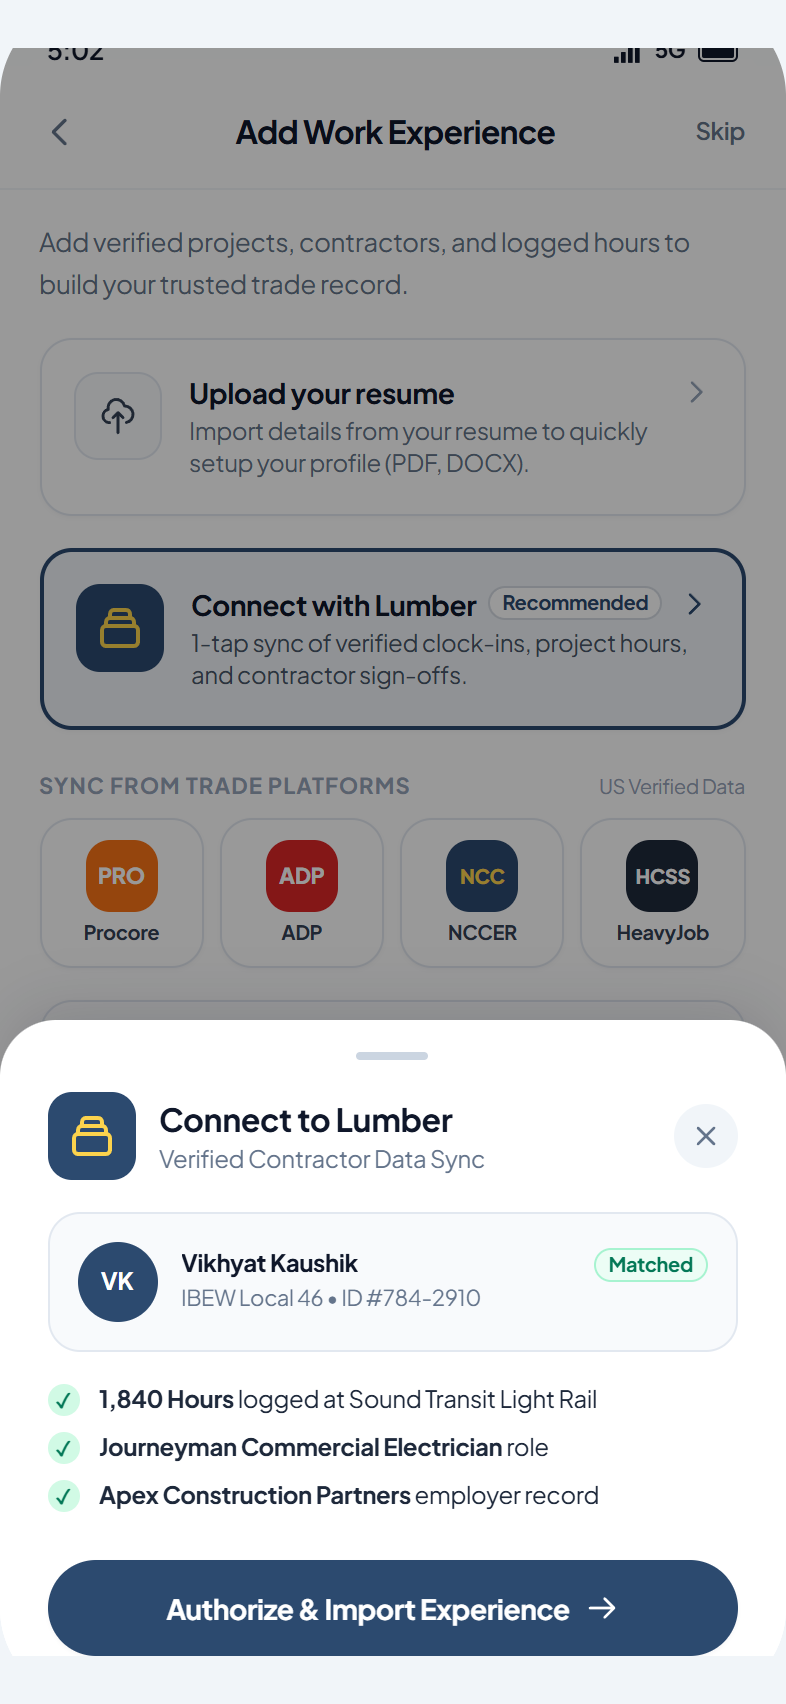
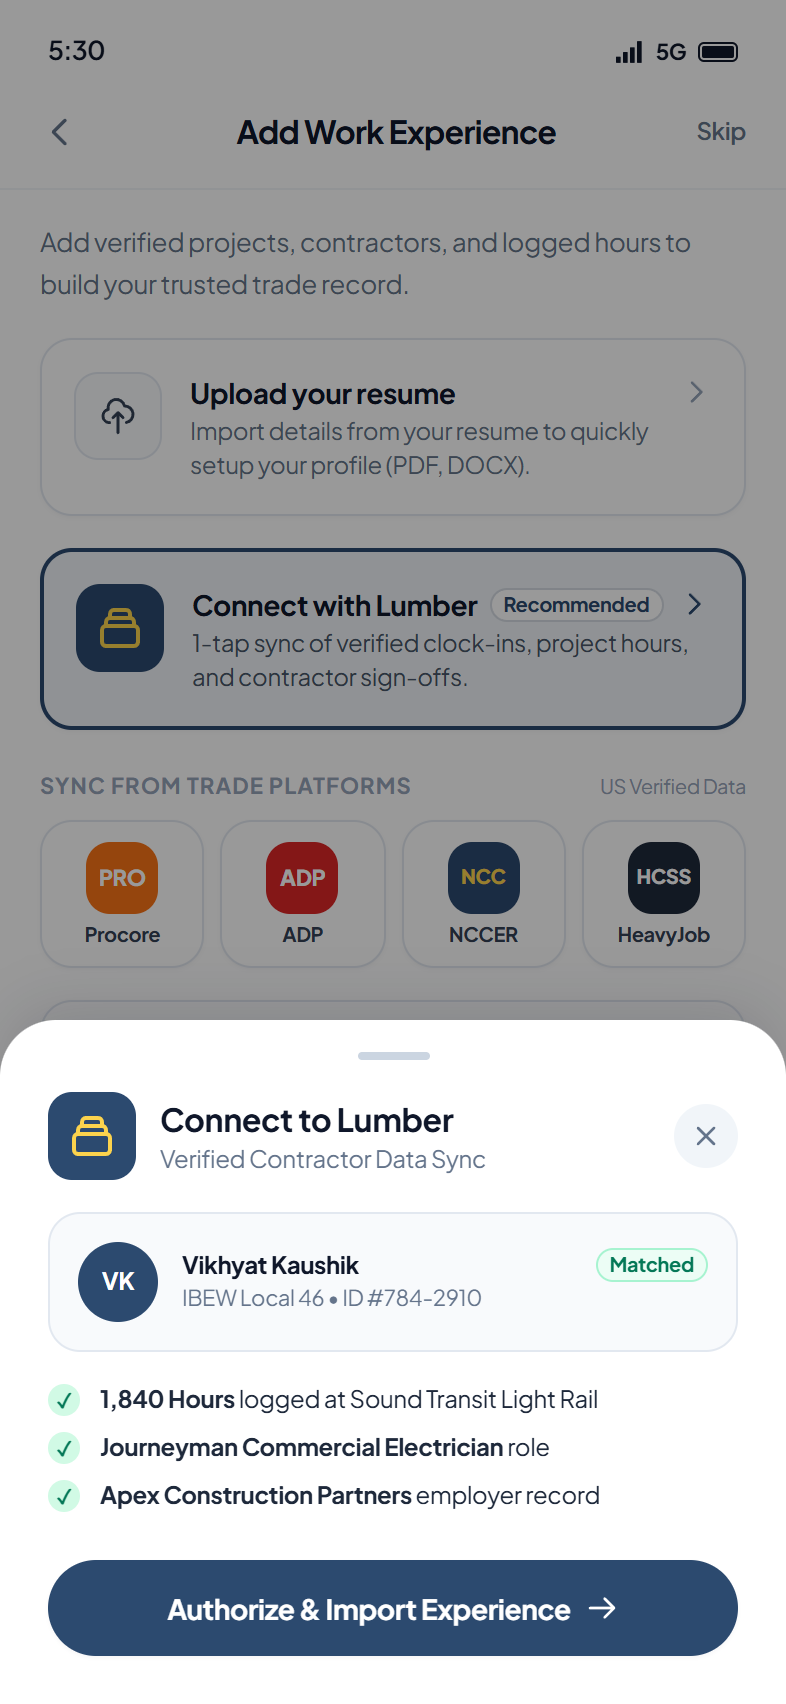
fix: Uncrop screen captures with full top and bottom bars, add Loom link, and unify deliverables card section

diff --git a/case-study.html b/case-study.html
@@ -197,60 +197,72 @@
   <!-- ===================================================================== -->
   <!-- INTERACTIVE DELIVERABLES: HTML PROTOTYPE & LOOM VIDEO LINKS           -->
   <!-- ===================================================================== -->
-  <div class="w-full bg-[#0E1420] text-white border-b border-slate-800 py-10 sm:py-12 px-6 sm:px-10 avoid-break shadow-2xl relative z-20">
-    <div class="max-w-7xl mx-auto flex flex-col lg:flex-row lg:items-center justify-between gap-8">
+  <section class="w-full py-12 sm:py-16 bg-white border-b border-slate-200/80 avoid-break">
+    <div class="max-w-7xl mx-auto px-6 sm:px-10 space-y-8">
       
-      <!-- Text & Live Status -->
-      <div class="space-y-2.5 max-w-xl">
-        <div class="inline-flex items-center gap-2.5 px-3 py-1 rounded-full bg-emerald-500/10 border border-emerald-500/30 text-emerald-400 text-xs font-mono font-semibold">
-          <span class="w-2 h-2 rounded-full bg-emerald-400 animate-pulse"></span>
-          <span class="tracking-wide uppercase">Interactive Deliverables</span>
+      <!-- Section Header with Two-Tone Typography & Side Accent (Matching Walkthrough Section) -->
+      <div class="flex flex-col lg:flex-row lg:items-end justify-between gap-6 pb-2">
+        <div class="space-y-3 max-w-3xl">
+          <div class="inline-flex items-center gap-2 px-3 py-1 rounded-full bg-blue-50 border border-blue-200 text-[#2C4A6F] text-xs font-mono font-semibold">
+            <span class="w-2 h-2 rounded-full bg-[#2C4A6F] animate-pulse"></span>
+            <span>INTERACTIVE DELIVERABLES</span>
+          </div>
+          <h3 class="text-3xl sm:text-4xl lg:text-5xl font-semibold tracking-tight text-slate-900 leading-tight">
+            Explore the Working <span class="text-slate-400 font-normal">Deliverables</span>
+          </h3>
+          <p class="text-base text-slate-600 leading-relaxed font-normal">
+            Interact with the working mobile application simulator directly in your browser or watch the narrated video walkthrough detailing key architecture decisions.
+          </p>
         </div>
-        <h3 class="text-2xl sm:text-3xl font-bold tracking-tight text-white">
-          Explore the Working Redesign
-        </h3>
-        <p class="text-sm sm:text-base text-slate-300 font-light leading-relaxed">
-          Test the interactive mobile prototype directly in your browser, or watch the narrated Loom video walkthrough covering key architectural trade-offs.
-        </p>
+        <div class="hidden lg:block pl-6 border-l border-slate-200 text-xs font-mono uppercase tracking-widest text-slate-400 leading-relaxed max-w-[200px]">
+          INTERACTIVE PROTOTYPE &amp; VIDEO.
+        </div>
       </div>
 
-      <!-- Prominent High-Impact Action Buttons -->
-      <div class="flex flex-col sm:flex-row items-stretch sm:items-center gap-4">
-        <!-- HTML Prototype Button (Primary High-Contrast Accent) -->
-        <a href="index.html" target="_blank" rel="noopener noreferrer" class="group relative inline-flex items-center justify-between sm:justify-center gap-4 px-8 py-4 sm:py-5 rounded-2xl bg-[#2C4A6F] hover:bg-[#1E3550] text-white font-bold text-base shadow-2xl hover:shadow-cyan-900/40 hover:-translate-y-1 transition-all duration-300 ring-2 ring-white/20 hover:ring-amber-300/60">
-          <div class="flex items-center gap-3.5">
-            <div class="w-10 h-10 rounded-xl bg-white/15 flex items-center justify-center text-amber-300 group-hover:scale-110 group-hover:rotate-6 transition-all duration-300 shadow-inner">
-              <svg class="w-5 h-5" fill="none" stroke="currentColor" stroke-width="2.2" viewBox="0 0 24 24">
-                <path stroke-linecap="round" stroke-linejoin="round" d="M10 20l4-16m4 4l4 4-4 4M6 16l-4-4 4-4"/>
-              </svg>
-            </div>
-            <div class="text-left">
-              <span class="block text-base sm:text-lg font-bold tracking-tight text-white leading-tight">Interactive HTML Prototype</span>
-              <span class="text-xs text-slate-300 font-normal font-mono">Live Mobile App Simulator ↗</span>
+      <!-- Deliverables Action Cards (Matching User Reference Design) -->
+      <div class="grid grid-cols-1 md:grid-cols-2 gap-6">
+        <!-- Card 1: Interactive HTML Prototype -->
+        <a href="https://v1khyat.github.io/LumberFi-Assignment/" target="_blank" rel="noopener noreferrer" class="group p-8 rounded-[28px] bg-gradient-to-br from-[#F0F5FA] to-[#E5EEF8] border border-blue-200/80 shadow-sm hover:shadow-md transition-all duration-300 flex flex-col justify-between space-y-6">
+          <div class="flex items-start justify-between">
+            <span class="inline-flex items-center gap-2 px-3 py-1 rounded-full bg-emerald-50 border border-emerald-200 text-emerald-700 text-xs font-mono font-semibold">
+              <span class="w-2 h-2 rounded-full bg-emerald-500 animate-pulse"></span>
+              <span>LIVE EVALUATION READY</span>
+            </span>
+            <div class="w-11 h-11 rounded-2xl bg-white border border-slate-200 text-[#2C4A6F] flex items-center justify-center font-mono font-bold text-sm shadow-xs group-hover:scale-105 transition-transform">
+              &lt;/&gt;
             </div>
           </div>
-          <span class="text-[11px] font-mono font-extrabold bg-emerald-400 text-slate-950 px-2.5 py-1 rounded-lg uppercase tracking-wider shadow-sm ml-2">LIVE</span>
+          <div class="space-y-1">
+            <h4 class="text-2xl font-bold tracking-tight text-slate-900">Interactive HTML Prototype</h4>
+            <p class="text-xs text-slate-500 font-mono">Live Mobile App Simulator ↗</p>
+          </div>
+          <div class="pt-2 flex justify-end">
+            <span class="px-5 py-2 rounded-xl bg-[#2C4A6F] text-white text-xs font-bold font-mono tracking-wider uppercase shadow-xs group-hover:bg-[#1E3550] transition-colors">LIVE</span>
+          </div>
         </a>
 
-        <!-- Loom Video Explainer Button (Crisp High-Contrast White Pill) -->
-        <a href="https://www.loom.com/share/your-loom-video-id" target="_blank" rel="noopener noreferrer" class="group relative inline-flex items-center justify-between sm:justify-center gap-4 px-8 py-4 sm:py-5 rounded-2xl bg-white hover:bg-slate-100 text-slate-900 font-bold text-base shadow-2xl hover:shadow-white/20 hover:-translate-y-1 transition-all duration-300 ring-2 ring-white hover:ring-[#625DF5]/50">
-          <div class="flex items-center gap-3.5">
-            <div class="w-10 h-10 rounded-xl bg-[#625DF5]/10 flex items-center justify-center text-[#625DF5] group-hover:scale-110 group-hover:rotate-6 transition-all duration-300 shadow-inner">
+        <!-- Card 2: Quick Loom Explainer -->
+        <a href="https://www.loom.com/share/42d12a3114e4495a91f8ef5b5296af5b" target="_blank" rel="noopener noreferrer" class="group p-8 rounded-[28px] bg-white border border-slate-200 shadow-sm hover:shadow-md transition-all duration-300 flex flex-col justify-between space-y-6">
+          <div class="flex items-start justify-between">
+            <div class="w-11 h-11 rounded-2xl bg-[#625DF5]/10 text-[#625DF5] flex items-center justify-center group-hover:scale-105 transition-transform">
               <svg class="w-5 h-5" viewBox="0 0 24 24" fill="currentColor">
                 <path d="M12 2C6.48 2 2 6.48 2 12s4.48 10 10 10 10-4.48 10-10S17.52 2 12 2zm-2 14.5v-9l6 4.5-6 4.5z"/>
               </svg>
             </div>
-            <div class="text-left">
-              <span class="block text-base sm:text-lg font-bold tracking-tight text-slate-900 leading-tight">Quick Loom Explainer</span>
-              <span class="text-xs text-slate-500 font-normal font-mono">Narrated Video Walkthrough ↗</span>
-            </div>
+            <span class="text-xs text-slate-400 font-mono">5 MIN READ / WATCH</span>
           </div>
-          <span class="text-[11px] font-mono font-bold bg-slate-100 text-slate-700 px-2.5 py-1 rounded-lg uppercase tracking-wider border border-slate-300 ml-2">VIDEO</span>
+          <div class="space-y-1">
+            <h4 class="text-2xl font-bold tracking-tight text-slate-900">Quick Loom Explainer</h4>
+            <p class="text-xs text-slate-500 font-mono">Narrated Video Walkthrough ↗</p>
+          </div>
+          <div class="pt-2 flex justify-end">
+            <span class="px-5 py-2 rounded-xl bg-slate-100 border border-slate-200 text-slate-700 text-xs font-bold font-mono tracking-wider uppercase group-hover:bg-slate-200 transition-colors">VIDEO</span>
+          </div>
         </a>
       </div>
 
     </div>
-  </div>
+  </section>
 
   <!-- ===================================================================== -->
   <!-- THE CONTEXT (App, Users, & The Core Problem)                          -->
@@ -827,7 +839,7 @@
       <!-- Deliverables Action Cards (Matching User Reference Design) -->
       <div class="grid grid-cols-1 md:grid-cols-2 gap-6">
         <!-- Card 1: Interactive HTML Prototype -->
-        <a href="index.html" target="_blank" rel="noopener noreferrer" class="group p-8 rounded-[28px] bg-gradient-to-br from-[#F0F5FA] to-[#E5EEF8] border border-blue-200/80 shadow-sm hover:shadow-md transition-all duration-300 flex flex-col justify-between space-y-6">
+        <a href="https://v1khyat.github.io/LumberFi-Assignment/" target="_blank" rel="noopener noreferrer" class="group p-8 rounded-[28px] bg-gradient-to-br from-[#F0F5FA] to-[#E5EEF8] border border-blue-200/80 shadow-sm hover:shadow-md transition-all duration-300 flex flex-col justify-between space-y-6">
           <div class="flex items-start justify-between">
             <span class="inline-flex items-center gap-2 px-3 py-1 rounded-full bg-emerald-50 border border-emerald-200 text-emerald-700 text-xs font-mono font-semibold">
               <span class="w-2 h-2 rounded-full bg-emerald-500 animate-pulse"></span>
@@ -847,7 +859,7 @@
         </a>
 
         <!-- Card 2: Quick Loom Explainer -->
-        <a href="https://www.loom.com/share/your-loom-video-id" target="_blank" rel="noopener noreferrer" class="group p-8 rounded-[28px] bg-white border border-slate-200 shadow-sm hover:shadow-md transition-all duration-300 flex flex-col justify-between space-y-6">
+        <a href="https://www.loom.com/share/42d12a3114e4495a91f8ef5b5296af5b" target="_blank" rel="noopener noreferrer" class="group p-8 rounded-[28px] bg-white border border-slate-200 shadow-sm hover:shadow-md transition-all duration-300 flex flex-col justify-between space-y-6">
           <div class="flex items-start justify-between">
             <div class="w-11 h-11 rounded-2xl bg-[#625DF5]/10 text-[#625DF5] flex items-center justify-center group-hover:scale-105 transition-transform">
               <svg class="w-5 h-5" viewBox="0 0 24 24" fill="currentColor">
@@ -872,9 +884,9 @@
         <!-- SCREEN 1: Image Left, Text Right -->
         <div class="grid grid-cols-1 lg:grid-cols-12 gap-8 lg:gap-14 items-center">
           <div class="lg:col-span-5 flex justify-center">
-            <div class="w-full max-w-[280px] sm:max-w-[310px] rounded-[44px] p-2 bg-slate-900 shadow-2xl ring-1 ring-slate-800 transition-transform duration-500 hover:scale-[1.01]">
-              <div class="rounded-[36px] overflow-hidden bg-white aspect-[393/852]">
-                <img src="assets/screen-app-hub.png" alt="Screen 1: Add Work Experience Source Hub" class="w-full h-full object-cover object-top block" />
+            <div class="w-full max-w-[280px] sm:max-w-[310px] rounded-[42px] p-2 bg-slate-900 shadow-2xl ring-1 ring-slate-800 transition-transform duration-500 hover:scale-[1.01]">
+              <div class="rounded-[32px] overflow-hidden bg-white">
+                <img src="assets/screen-app-hub.png" alt="Screen 1: Add Work Experience Source Hub" class="w-full h-auto block" />
               </div>
             </div>
           </div>
@@ -945,9 +957,9 @@
           </div>
 
           <div class="lg:col-span-5 order-1 lg:order-2 flex justify-center">
-            <div class="w-full max-w-[280px] sm:max-w-[310px] rounded-[44px] p-2 bg-slate-900 shadow-2xl ring-1 ring-slate-800 transition-transform duration-500 hover:scale-[1.01]">
-              <div class="rounded-[36px] overflow-hidden bg-white aspect-[393/852]">
-                <img src="assets/screen-app-handshake.png" alt="Screen 2: Pre-Sync Trust Handshake Modal" class="w-full h-full object-cover object-top block" />
+            <div class="w-full max-w-[280px] sm:max-w-[310px] rounded-[42px] p-2 bg-slate-900 shadow-2xl ring-1 ring-slate-800 transition-transform duration-500 hover:scale-[1.01]">
+              <div class="rounded-[32px] overflow-hidden bg-white">
+                <img src="assets/screen-app-handshake.png" alt="Screen 2: Pre-Sync Trust Handshake Modal" class="w-full h-auto block" />
               </div>
             </div>
           </div>
@@ -956,9 +968,9 @@
         <!-- SCREEN 3: Image Left, Text Right (Overlapping) -->
         <div class="grid grid-cols-1 lg:grid-cols-12 gap-8 lg:gap-14 items-center lg:-mt-12">
           <div class="lg:col-span-5 flex justify-center">
-            <div class="w-full max-w-[280px] sm:max-w-[310px] rounded-[44px] p-2 bg-slate-900 shadow-2xl ring-1 ring-slate-800 transition-transform duration-500 hover:scale-[1.01]">
-              <div class="rounded-[36px] overflow-hidden bg-white aspect-[393/852]">
-                <img src="assets/screen-app-step1.png" alt="Screen 3: Step 1 Role Definition" class="w-full h-full object-cover object-top block" />
+            <div class="w-full max-w-[280px] sm:max-w-[310px] rounded-[42px] p-2 bg-slate-900 shadow-2xl ring-1 ring-slate-800 transition-transform duration-500 hover:scale-[1.01]">
+              <div class="rounded-[32px] overflow-hidden bg-white">
+                <img src="assets/screen-app-step1.png" alt="Screen 3: Step 1 Role Definition" class="w-full h-auto block" />
               </div>
             </div>
           </div>
@@ -1029,9 +1041,9 @@
           </div>
 
           <div class="lg:col-span-5 order-1 lg:order-2 flex justify-center">
-            <div class="w-full max-w-[280px] sm:max-w-[310px] rounded-[44px] p-2 bg-slate-900 shadow-2xl ring-1 ring-slate-800 transition-transform duration-500 hover:scale-[1.01]">
-              <div class="rounded-[36px] overflow-hidden bg-white aspect-[393/852]">
-                <img src="assets/screen-app-step2.png" alt="Screen 4: Step 2 Companies Worked Batching" class="w-full h-full object-cover object-top block" />
+            <div class="w-full max-w-[280px] sm:max-w-[310px] rounded-[42px] p-2 bg-slate-900 shadow-2xl ring-1 ring-slate-800 transition-transform duration-500 hover:scale-[1.01]">
+              <div class="rounded-[32px] overflow-hidden bg-white">
+                <img src="assets/screen-app-step2.png" alt="Screen 4: Step 2 Companies Worked Batching" class="w-full h-auto block" />
               </div>
             </div>
           </div>
@@ -1040,9 +1052,9 @@
         <!-- SCREEN 5: Image Left, Text Right (Overlapping) -->
         <div class="grid grid-cols-1 lg:grid-cols-12 gap-8 lg:gap-14 items-center lg:-mt-12">
           <div class="lg:col-span-5 flex justify-center">
-            <div class="w-full max-w-[280px] sm:max-w-[310px] rounded-[44px] p-2 bg-slate-900 shadow-2xl ring-1 ring-slate-800 transition-transform duration-500 hover:scale-[1.01]">
-              <div class="rounded-[36px] overflow-hidden bg-white aspect-[393/852]">
-                <img src="assets/screen-app-profile-roles.png" alt="Screen 5: Role-Wise Experience Profile" class="w-full h-full object-cover object-top block" />
+            <div class="w-full max-w-[280px] sm:max-w-[310px] rounded-[42px] p-2 bg-slate-900 shadow-2xl ring-1 ring-slate-800 transition-transform duration-500 hover:scale-[1.01]">
+              <div class="rounded-[32px] overflow-hidden bg-white">
+                <img src="assets/screen-app-profile-roles.png" alt="Screen 5: Role-Wise Experience Profile" class="w-full h-auto block" />
               </div>
             </div>
           </div>
@@ -1113,9 +1125,9 @@
           </div>
 
           <div class="lg:col-span-5 order-1 lg:order-2 flex justify-center">
-            <div class="w-full max-w-[280px] sm:max-w-[310px] rounded-[44px] p-2 bg-slate-900 shadow-2xl ring-1 ring-slate-800 transition-transform duration-500 hover:scale-[1.01]">
-              <div class="rounded-[36px] overflow-hidden bg-white aspect-[393/852]">
-                <img src="assets/screen-app-profile-timeline.png" alt="Screen 6: Chronological Timeline View" class="w-full h-full object-cover object-top block" />
+            <div class="w-full max-w-[280px] sm:max-w-[310px] rounded-[42px] p-2 bg-slate-900 shadow-2xl ring-1 ring-slate-800 transition-transform duration-500 hover:scale-[1.01]">
+              <div class="rounded-[32px] overflow-hidden bg-white">
+                <img src="assets/screen-app-profile-timeline.png" alt="Screen 6: Chronological Timeline View" class="w-full h-auto block" />
               </div>
             </div>
           </div>
